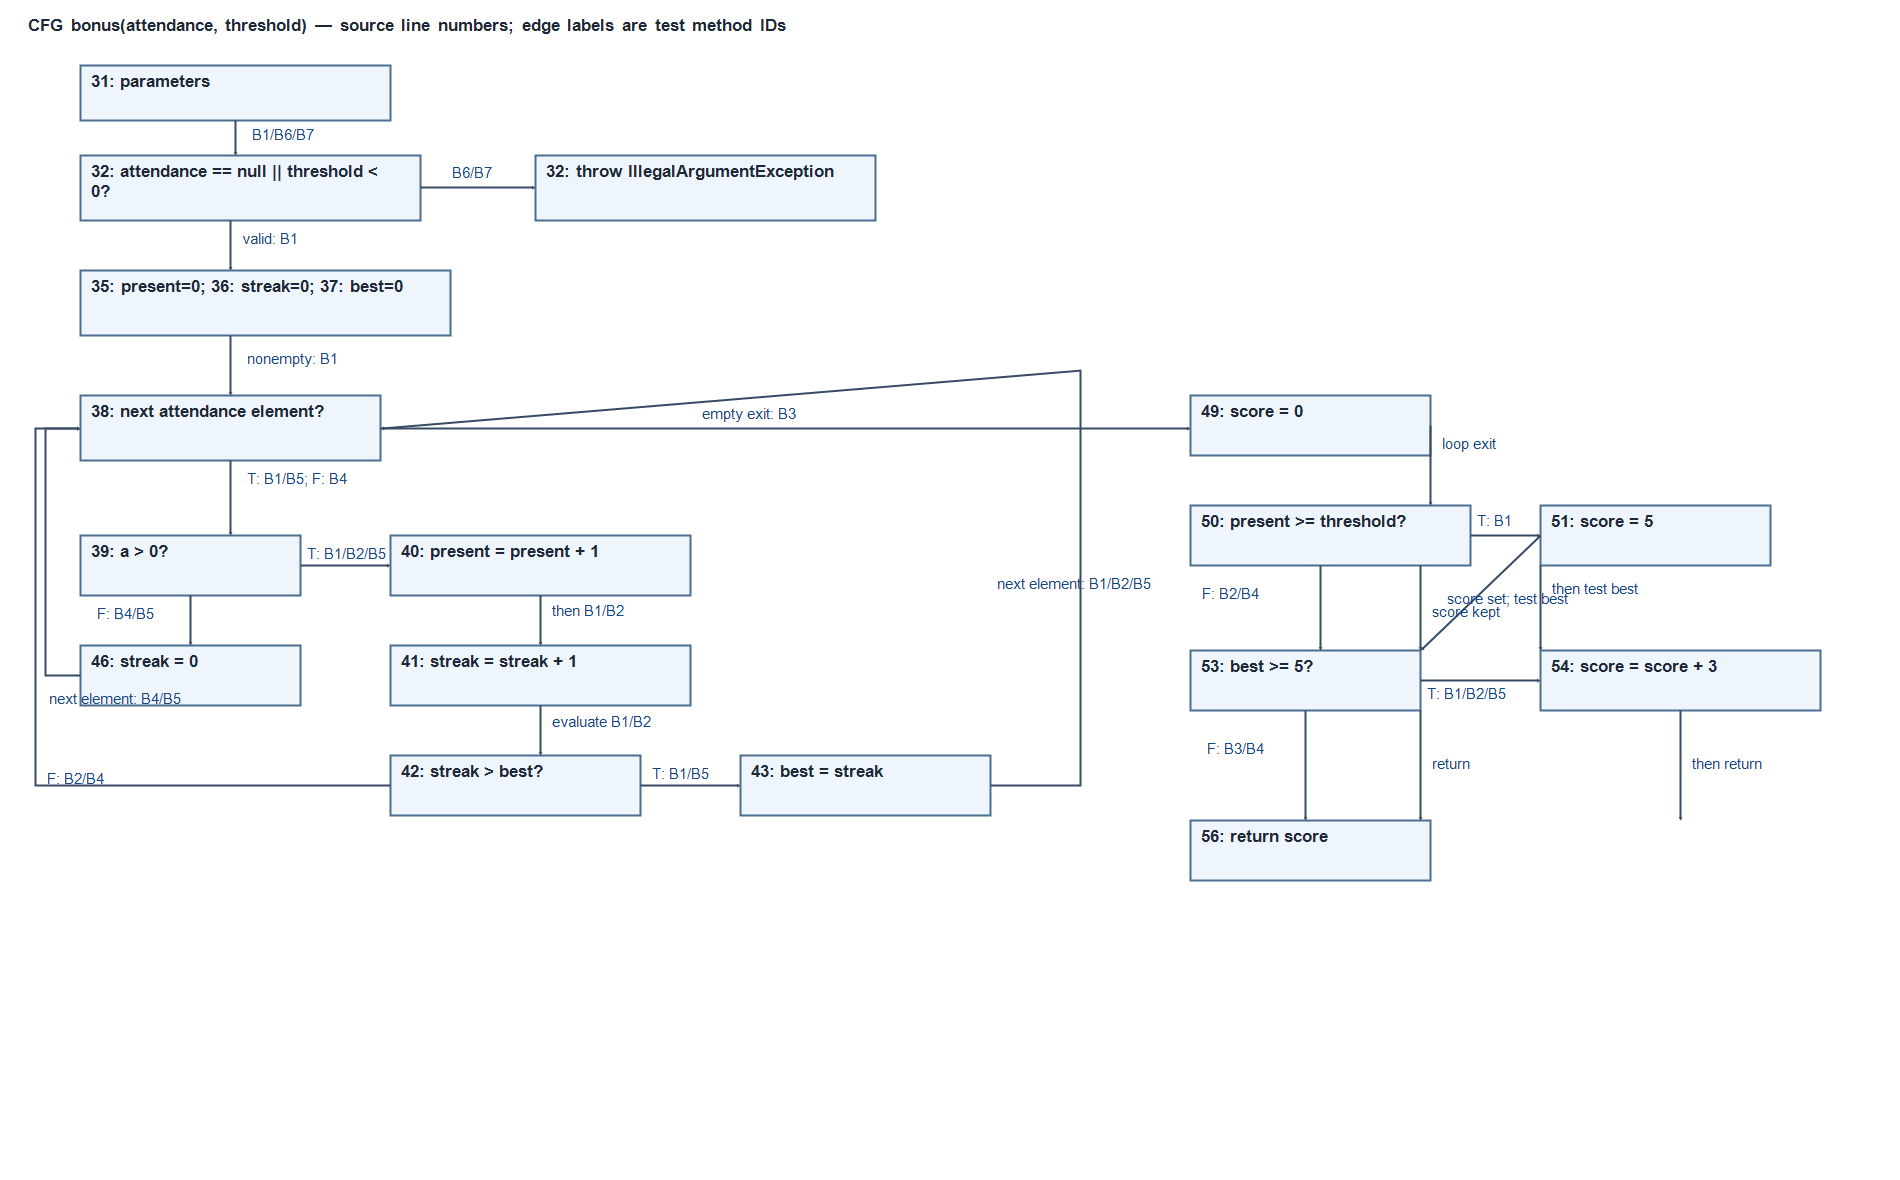
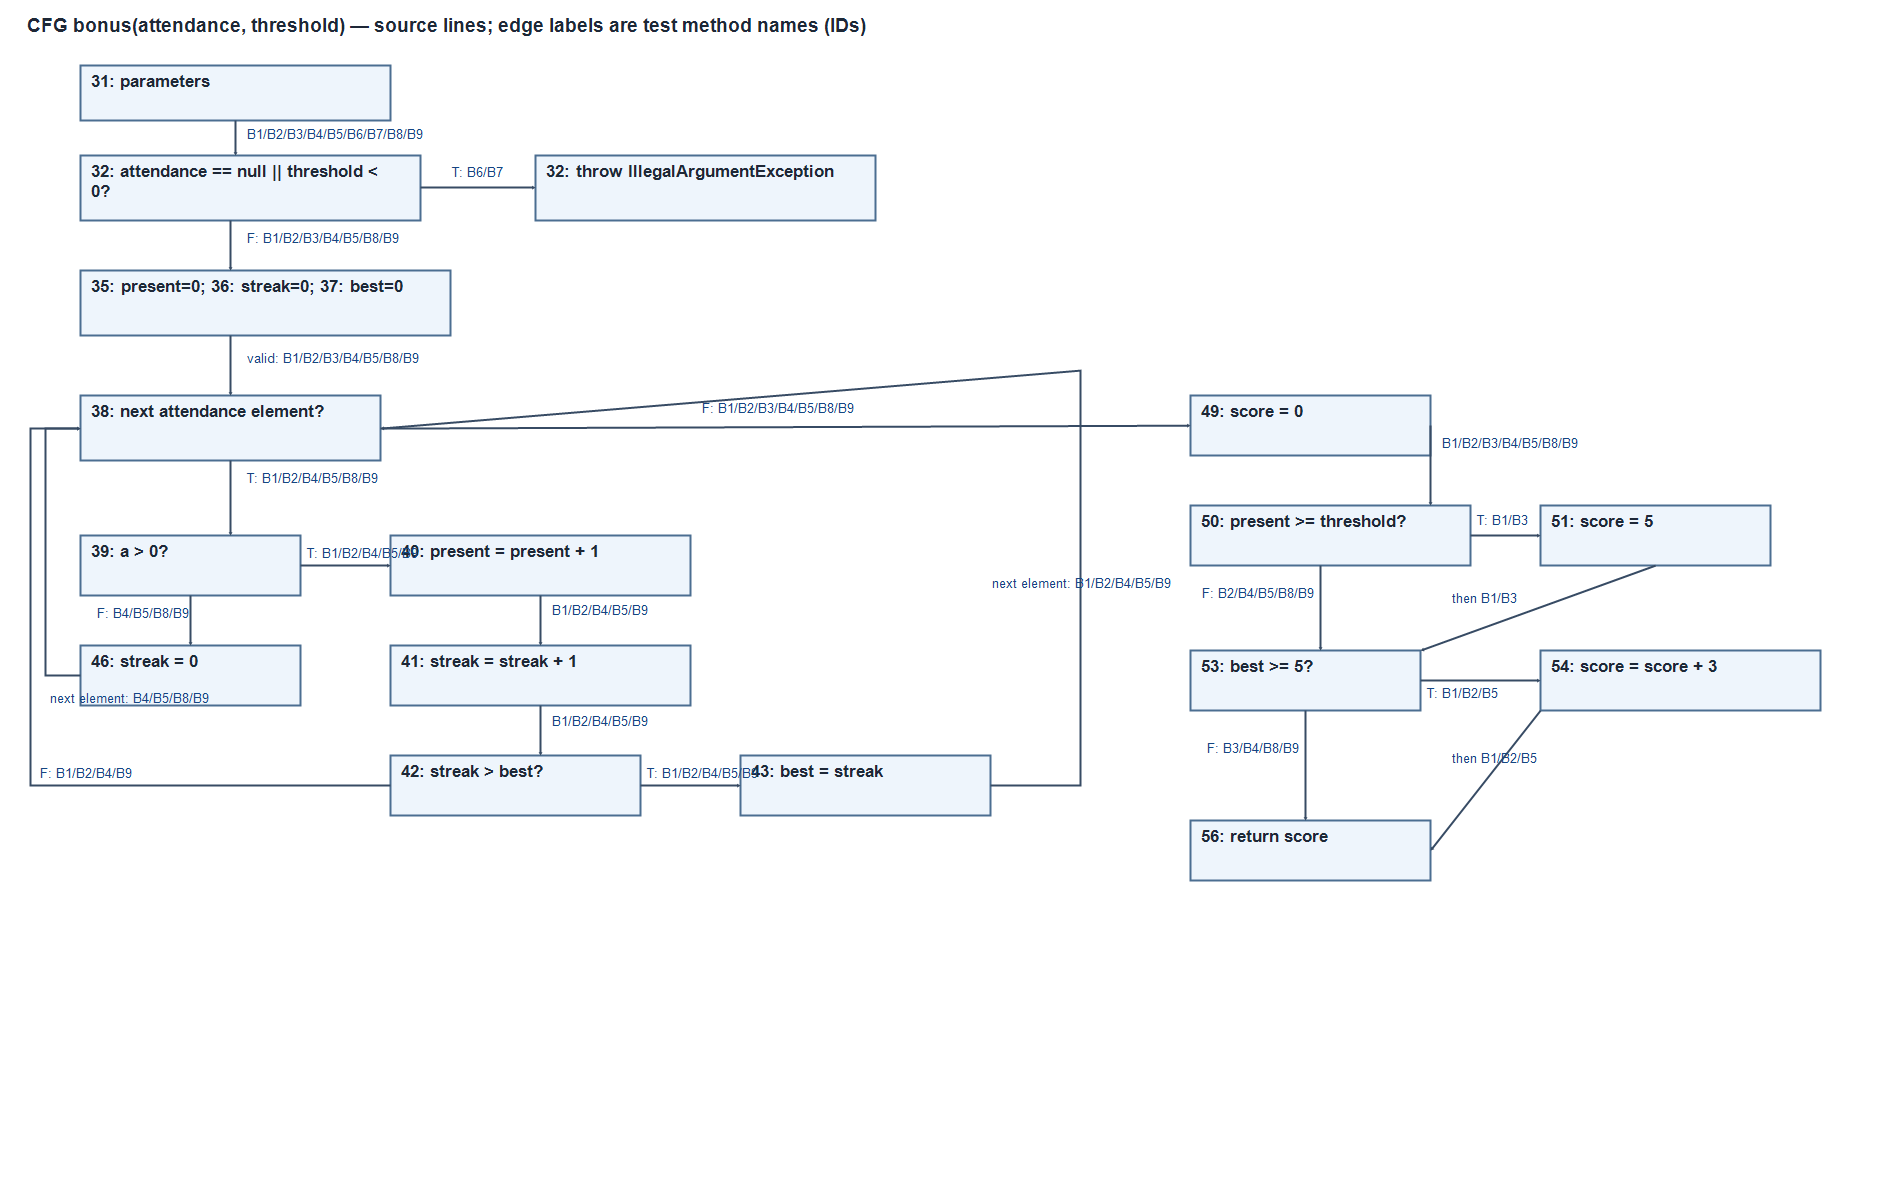
Seed dataflow faults and record final verification

diff --git a/src/test/java/mn/edu/must/sqat/GcdTest.java b/src/test/java/mn/edu/must/sqat/GcdTest.java
@@ -7,14 +7,15 @@ import static org.junit.jupiter.api.Assertions.assertEquals;
 
 class GcdTest {
     @Test
-    @DisplayName("gcd(7,0): x def 13 to return use 20")
+    @DisplayName("gcd(7,0): x 13->20 c-use; y 13->15 p-use F")
     void xDefinitionReachesReturnWithoutLoop() {
         assertEquals(7, DataFlowTargets.gcd(7, 0));
     }
 
     @Test
-    @DisplayName("gcd(12,8): loop DU pairs across two iterations")
+    @DisplayName("gcd(12,8): x 13->16, 17->16/20; y 13/18->15/16; tmp 16->18")
     void twoIterationsCoverLoopPairs() {
         assertEquals(4, DataFlowTargets.gcd(12, 8));
     }
 }
+

diff --git a/src/test/java/mn/edu/must/sqat/BonusTest.java b/src/test/java/mn/edu/must/sqat/BonusTest.java
@@ -30,4 +30,10 @@ class BonusTest {
 
     @Test @DisplayName("all-DU-pairs: all absences preserve initial present definition")
     void B8() { assertEquals(0, DataFlowTargets.bonus(new int[]{0, 0}, 1)); }
+
+    @Test
+    @DisplayName("M2 kill: present grows across reset before a shorter streak")
+    void B9() {
+        assertEquals(0, DataFlowTargets.bonus(new int[]{1, 0, 1, 1, 1, 1}, 6));
+    }
 }
